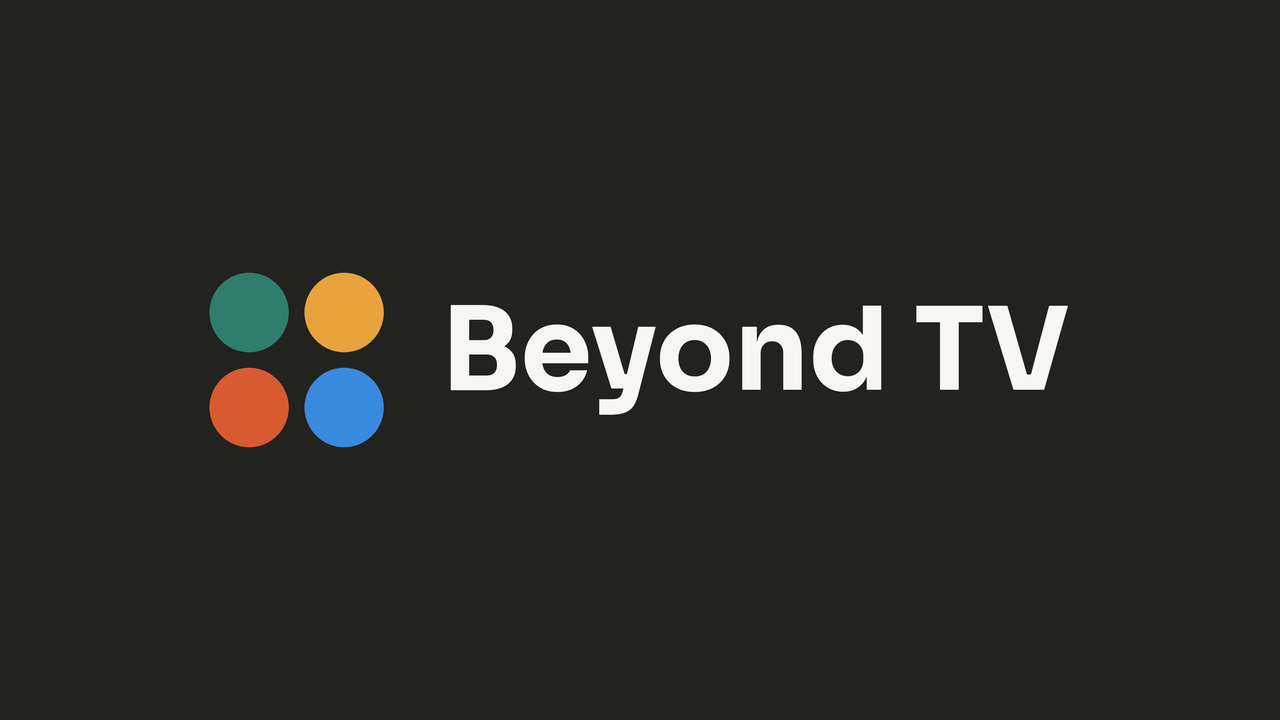
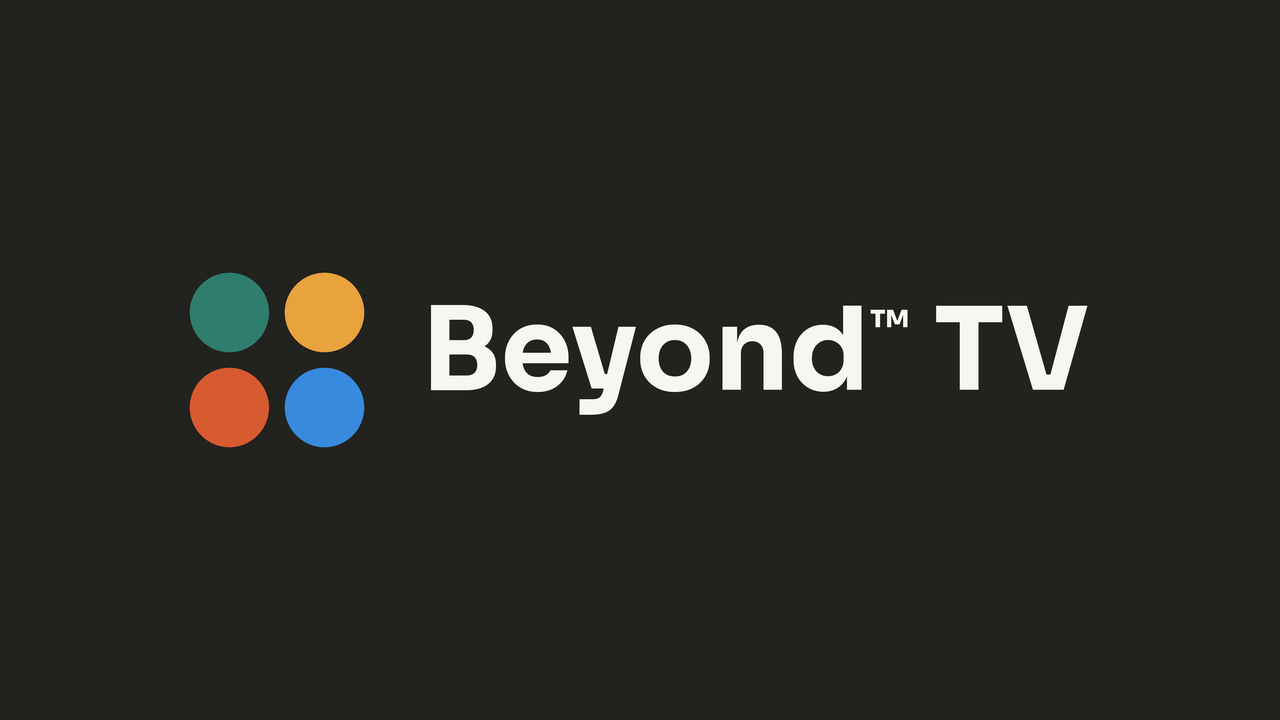
Beyond™ TV: the name with its mark everywhere people see it, and screenshots
The app label, the home screen, settings, notices and the three translations, the
LG and Samsung titles, the website and the README. Package names, ids, the Plex
headers and logs keep plain ASCII. The banner draws the mark small and raised.
README gains a screenshots table.

Claude-Session: https://claude.ai/code/session_01NMFHC4zJxMFBcCPjJdwmTM

Changed region(s): [[0.125, 0.3667, 0.875, 0.6417], [0.25, 0.6111, 0.2812, 0.6417]]

diff --git a/docs/index.html b/docs/index.html
@@ -3,11 +3,11 @@
 <head>
 <meta charset="utf-8">
 <meta name="viewport" content="width=device-width, initial-scale=1">
-<title>Beyond TV</title>
-<meta name="description" content="Beyond TV: one calm home screen for the whole whānau. Your streaming apps, your Plex and your family, on one TV, with no ads.">
+<title>Beyond™ TV</title>
+<meta name="description" content="Beyond™ TV: one calm home screen for the whole whānau. Your streaming apps, your Plex and your family, on one TV, with no ads.">
 <link rel="icon" href="assets/favicon-64.png">
 <link rel="apple-touch-icon" href="assets/apple-touch-icon.png">
-<meta property="og:title" content="Beyond TV">
+<meta property="og:title" content="Beyond™ TV">
 <meta property="og:description" content="One calm home screen for the whole whānau. No ads.">
 <meta property="og:image" content="assets/banner.png">
 <style>
@@ -40,14 +40,14 @@
 </head>
 <body>
 <main>
-  <header><span class="dots"><i></i><i></i><i></i><i></i></span>Beyond TV</header>
+  <header><span class="dots"><i></i><i></i><i></i><i></i></span>Beyond™ TV</header>
 
   <section class="hero">
     <h1>One calm home screen for the whole whānau.</h1>
-    <p class="lede">Beyond TV swaps your TV's ad-filled home screen for a quiet one: your streaming apps on one shelf,
+    <p class="lede">Beyond™ TV swaps your TV's ad-filled home screen for a quiet one: your streaming apps on one shelf,
       what's worth watching tonight, and nothing trying to sell you anything. Free, and built in Aotearoa by
       <a href="https://gobeyond.co.nz">Beyond</a>.</p>
-    <img src="assets/banner.png" alt="The Beyond TV logo: Beyond's four coloured dots beside the words Beyond TV">
+    <img src="assets/banner.png" alt="The Beyond™ TV logo: Beyond's four coloured dots beside the words Beyond™ TV">
   </section>
 
   <h2>What it does now</h2>
@@ -67,7 +67,7 @@
   </div>
 
   <footer>
-    Beyond TV is free and open source (GPL-3.0) at <a href="https://github.com/YeahBuddyNZ/Beyond.TV">github.com/YeahBuddyNZ/Beyond.TV</a>.
+    Beyond™ TV is free and open source (GPL-3.0) at <a href="https://github.com/YeahBuddyNZ/Beyond.TV">github.com/YeahBuddyNZ/Beyond.TV</a>.
     It began as a fork of <a href="https://github.com/simbasjungles/free-my-tv">Free My TV</a> (MIT), with thanks to its contributors.
   </footer>
 </main>

diff --git a/web/home.js b/web/home.js
@@ -820,7 +820,7 @@
     el('div', 'shade', s);
     var brand = el('div', 'brand lockup', s);
     dots(brand);
-    brand.appendChild(document.createTextNode('Beyond TV'));
+    brand.appendChild(document.createTextNode('Beyond™ TV'));
     var clock = el('div', 'clock', s);
     el('div', 'time', clock);
     el('div', 'date', clock);

diff --git a/web/index.html b/web/index.html
@@ -3,7 +3,7 @@
 <head>
 <meta charset="utf-8">
 <meta name="viewport" content="width=1920, height=1080">
-<title>Beyond TV</title>
+<title>Beyond™ TV</title>
 <link rel="stylesheet" href="home.css">
 <link rel="stylesheet" href="beyond.css">
 </head>

diff --git a/app/src/nz/gobeyond/tv/Russian.java b/app/src/nz/gobeyond/tv/Russian.java
@@ -71,8 +71,8 @@ final class Russian {
             case "Switching the home screen and screensaver…": return "Переключение главного экрана и заставки…";
             case "Android didn't accept the new home screen": return "Android не принял новый главный экран";
             case "Turning off apps (": return "Отключение приложений (";
-            case "Measuring Beyond TV…": return "Замер Beyond TV…";
-            case "Couldn't turn on Beyond TV: ": return "Не удалось включить Beyond TV: ";
+            case "Measuring Beyond™ TV…": return "Замер Beyond™ TV…";
+            case "Couldn't turn on Beyond™ TV: ": return "Не удалось включить Beyond™ TV: ";
             case "Turning the apps back on…": return "Включение приложений…";
             case "Turning apps back on (": return "Включение приложений (";
             case "Restoring the original home screen…": return "Восстановление заводского главного экрана…";
@@ -80,13 +80,13 @@ final class Russian {
             case "the original home screen": return "заводской главный экран";
             case "Original mode, but I couldn't turn back on: ": return "Заводской режим, но не удалось включить: ";
             case "Couldn't go back to the original: ": return "Не удалось восстановить заводской режим: ";
-            case "Beyond TV's home screen crashed 3 times in a row; I switched back to the original one.": return "Главный экран Beyond TV аварийно завершился 3 раза подряд; восстановлен заводской главный экран.";
+            case "Beyond™ TV's home screen crashed 3 times in a row; I switched back to the original one.": return "Главный экран Beyond™ TV аварийно завершился 3 раза подряд; восстановлен заводской главный экран.";
             case "the home screen": return "главный экран";
             case "the screensaver": return "заставка";
-            case "Couldn't check Beyond TV: ": return "Не удалось проверить Beyond TV: ";
+            case "Couldn't check Beyond™ TV: ": return "Не удалось проверить Beyond™ TV: ";
             case "The TV update turned back on ": return "После обновления телевизора снова включены: ";
             case "Turned off what was missing: ": return "Дополнительно отключены: ";
-            case "The TV was updated; Beyond TV is still on.": return "Телевизор обновлён; Beyond TV по-прежнему включён.";
+            case "The TV was updated; Beyond™ TV is still on.": return "Телевизор обновлён; Beyond™ TV по-прежнему включён.";
             case "Connecting…": return "Подключение…";
             case "Accept “Allow USB debugging?” on the TV (tick “Always allow”).": return "На телевизоре разрешите отладку по USB и отметьте «Всегда разрешать».";
             case "Language": return "Язык";
@@ -165,7 +165,7 @@ final class Russian {
             case "Soap": return "Мыльная опера";
             case "Talk": return "Ток-шоу";
             case "": return "";
-            case "Beyond TV's home screen ran into a problem.\nGoing back to the TV's original home screen…": return "Ошибка главного экрана Beyond TV.\nВозвращаемся к заводскому главному экрану…";
+            case "Beyond™ TV's home screen ran into a problem.\nGoing back to the TV's original home screen…": return "Ошибка главного экрана Beyond™ TV.\nВозвращаемся к заводскому главному экрану…";
             case "debugging is off on the TV (port 5555 closed)": return "отладка на телевизоре выключена (порт 5555 закрыт)";
             case "debugging permission wasn't accepted on the TV": return "на телевизоре не разрешена отладка";
             case "the TV's ADB didn't respond": return "ADB телевизора не ответил";
@@ -183,7 +183,7 @@ final class Russian {
                         + "Недоступные сети там не отображаются: Claude Code может удалить их с компьютера.";
             default:
                 // Notices are saved in the language in use when they were generated.
-                String[] prefixes = {"Couldn't check Beyond TV: ", "Couldn't turn on Beyond TV: ",
+                String[] prefixes = {"Couldn't check Beyond™ TV: ", "Couldn't turn on Beyond™ TV: ",
                         "Couldn't go back to the original: ", "Original mode, but I couldn't turn back on: "};
                 for (String p : prefixes) if (english.startsWith(p)) return text(p) + text(english.substring(p.length()));
                 String shelfPrefix = "OK adds or removes (up to ";
@@ -192,10 +192,10 @@ final class Russian {
                     String n = english.substring(shelfPrefix.length(), english.length() - shelfSuffix.length());
                     return "OK — добавить или убрать (до " + n + "). ← → — изменить порядок.";
                 }
-                String prefix = "Beyond TV is on: new home screen and screensaver, ";
+                String prefix = "Beyond™ TV is on: new home screen and screensaver, ";
                 if (english.startsWith(prefix) && english.endsWith(" apps turned off.")) {
                     String n = english.substring(prefix.length(), english.length() - " apps turned off.".length());
-                    return "Beyond TV включён: новый главный экран и заставка; отключено приложений: " + n + ".";
+                    return "Beyond™ TV включён: новый главный экран и заставка; отключено приложений: " + n + ".";
                 }
                 if (english.startsWith("On · ") && english.endsWith(" titles from the TV's apps, 3 new ones every hour.")) {
                     String n = english.substring(5, english.length() - " titles from the TV's apps, 3 new ones every hour.".length());

diff --git a/app/src/nz/gobeyond/tv/SettingsActivity.java b/app/src/nz/gobeyond/tv/SettingsActivity.java
@@ -176,7 +176,7 @@ public class SettingsActivity extends Activity {
             scene.setMotion(0.5f, 0.2f);
             scene.applyPalette();
             setFocusable(true);
-            setContentDescription("Beyond TV");
+            setContentDescription("Beyond™ TV");
             // TalkBack: one item per row, id = row + 1.
             spoken = new Spoken(this, new Spoken.Source() {
                 @Override public void items(List<Integer> out) { for (int i = 1; i <= rowCount(); i++) out.add(i); }
@@ -206,7 +206,7 @@ public class SettingsActivity extends Activity {
                     if (row == 0) {
                         String busyText = busyText();
                         String value = busy() ? (busyText.isEmpty() ? Ui.tr("Começando…", "Starting…") : busyText)
-                                : freeActive() ? "Beyond TV" : Ui.tr("Original", "Original");
+                                : freeActive() ? "Beyond™ TV" : Ui.tr("Original", "Original");
                         return Ui.tr("Início, ", "Home Screen, ") + value;
                     }
                     String[] names = {Ui.tr("Tela de Descanso, ver agora", "Screensaver, preview"), Ui.tr("Ajustes do Início", "Home Settings"),
@@ -214,7 +214,7 @@ public class SettingsActivity extends Activity {
                     return row - 1 < names.length ? names[row - 1] : "";
                 }
                 case HOME_CHOICE: {
-                    String name = row == 0 ? "Beyond TV, " + Ui.tr("sem anúncios, com a tela de descanso nova", "no ads, with the new screensaver")
+                    String name = row == 0 ? "Beyond™ TV, " + Ui.tr("sem anúncios, com a tela de descanso nova", "no ads, with the new screensaver")
                             : "Original, " + Ui.tr("o Início de fábrica da TV", "the TV's factory home screen");
                     boolean inUse = (row == 0) == freeActive();
                     return name + (inUse ? Ui.tr(". Em uso", ". In use") : "") + ", " + (row + 1) + Ui.tr(" de 2", " of 2");
@@ -361,7 +361,7 @@ public class SettingsActivity extends Activity {
             // On the left: big symbol, title, description.
             float cx = 500 * k;
             Symbols.draw(getContext(), c, "sparkles", cx, 400 * k, 150 * k, 0xEBFFFFFF);
-            c.drawText("Beyond TV", cx, 612 * k, title);
+            c.drawText("Beyond™ TV", cx, 612 * k, title);
             c.drawText(Ui.tr("Início e tela de descanso da TV", "Your TV's home screen and screensaver"), cx, 660 * k, subtitle);
             c.drawText(versionName(getContext()), cx, 704 * k, version);
 
@@ -371,7 +371,7 @@ public class SettingsActivity extends Activity {
         private void drawMain(Canvas c, float seconds) {
             boolean working = busy();
             String busyText = busyText();
-            String mode = freeActive() ? "Beyond TV" : Ui.tr("Original", "Original");
+            String mode = freeActive() ? "Beyond™ TV" : Ui.tr("Original", "Original");
             String[] labels = {Ui.tr("Início", "Home Screen"), Ui.tr("Tela de Descanso", "Screensaver"),
                     Ui.tr("Ajustes do Início", "Home Settings"), Ui.tr("Prateleira", "Shelf"),
                     Ui.tr("Botões do Controle", "Remote Buttons"), Ui.tr("Ajustes da TV", "TV Settings")};
@@ -475,7 +475,7 @@ public class SettingsActivity extends Activity {
             c.drawText(Ui.tr("COMPARAÇÃO", "COMPARISON"), x, y, header);
             cellValue.setColor(0x73FFFFFF);
             c.drawText(Ui.tr("Original", "Original"), colA, y, cellValue);
-            c.drawText("Beyond TV", colB, y, cellValue);
+            c.drawText("Beyond™ TV", colB, y, cellValue);
             cellValue.setColor(0xD9FFFFFF);
             JSONObject metrics = state.optJSONObject("metrics");
             JSONObject a = metrics == null ? null : metrics.optJSONObject(HomeMode.ORIGINAL);
@@ -510,7 +510,7 @@ public class SettingsActivity extends Activity {
         private void drawChoice(Canvas c) {
             Paint heading = Ui.text(Ui.displaySemibold, 34 * k, 0xFFFFFFFF);
             c.drawText(Ui.tr("Início", "Home Screen"), LIST_X * k + 30 * k, (LIST_TOP - 24) * k, heading);
-            String[][] options = {{"Beyond TV", Ui.tr("Sem anúncios, com a tela de descanso nova", "No ads, with the new screensaver")},
+            String[][] options = {{"Beyond™ TV", Ui.tr("Sem anúncios, com a tela de descanso nova", "No ads, with the new screensaver")},
                     {Ui.tr("Original", "Original"), Ui.tr("O Início de fábrica da TV", "The TV's factory home screen")}};
             int current = freeActive() ? 0 : 1;
             for (int i = 0; i < 2; i++) {
@@ -557,9 +557,9 @@ public class SettingsActivity extends Activity {
 
         private static String versionName(Context c) {
             try {
-                return "Beyond TV " + c.getPackageManager().getPackageInfo(c.getPackageName(), 0).versionName;
+                return "Beyond™ TV " + c.getPackageManager().getPackageInfo(c.getPackageName(), 0).versionName;
             } catch (android.content.pm.PackageManager.NameNotFoundException e) {
-                return "Beyond TV";
+                return "Beyond™ TV";
             }
         }
 

diff --git a/app/src/nz/gobeyond/tv/German.java b/app/src/nz/gobeyond/tv/German.java
@@ -64,8 +64,8 @@ final class German {
             case "Switching the home screen and screensaver…": return "Startbildschirm und Bildschirmschoner werden gewechselt…";
             case "Android didn't accept the new home screen": return "Android hat den neuen Startbildschirm nicht angenommen";
             case "Turning off apps (": return "Apps werden ausgeschaltet (";
-            case "Measuring Beyond TV…": return "Beyond TV wird gemessen…";
-            case "Couldn't turn on Beyond TV: ": return "Beyond TV ließ sich nicht einschalten: ";
+            case "Measuring Beyond™ TV…": return "Beyond™ TV wird gemessen…";
+            case "Couldn't turn on Beyond™ TV: ": return "Beyond™ TV ließ sich nicht einschalten: ";
             case "Turning the apps back on…": return "Die Apps werden wieder eingeschaltet…";
             case "Turning apps back on (": return "Apps werden wieder eingeschaltet (";
             case "Restoring the original home screen…": return "Der ursprüngliche Startbildschirm wird wiederhergestellt…";
@@ -73,16 +73,16 @@ final class German {
             case "the original home screen": return "den ursprünglichen Startbildschirm";
             case "Original mode, but I couldn't turn back on: ": return "Originalmodus, aber das ließ sich nicht wieder einschalten: ";
             case "Couldn't go back to the original: ": return "Zurück zum Original ging nicht: ";
-            case "Beyond TV's home screen crashed 3 times in a row; I switched back to the original one.": return "Der Startbildschirm von Beyond TV ist 3-mal hintereinander abgestürzt; der ursprüngliche ist wieder aktiv.";
+            case "Beyond™ TV's home screen crashed 3 times in a row; I switched back to the original one.": return "Der Startbildschirm von Beyond™ TV ist 3-mal hintereinander abgestürzt; der ursprüngliche ist wieder aktiv.";
             case "the home screen": return "den Startbildschirm";
             case "the screensaver": return "den Bildschirmschoner";
-            case "Couldn't check Beyond TV: ": return "Beyond TV ließ sich nicht prüfen: ";
+            case "Couldn't check Beyond™ TV: ": return "Beyond™ TV ließ sich nicht prüfen: ";
             case "The TV update turned back on ": return "Das TV-Update hat wieder eingeschaltet: ";
             case "Turned off what was missing: ": return "Ausgeschaltet, was noch fehlte: ";
-            case "The TV was updated; Beyond TV is still on.": return "Der Fernseher wurde aktualisiert; Beyond TV ist weiter aktiv.";
+            case "The TV was updated; Beyond™ TV is still on.": return "Der Fernseher wurde aktualisiert; Beyond™ TV ist weiter aktiv.";
             case "Connecting…": return "Verbindung wird hergestellt…";
             case "Accept “Allow USB debugging?” on the TV (tick “Always allow”).": return "Am Fernseher „USB-Debugging zulassen?“ bestätigen („Immer zulassen“ ankreuzen).";
-            case "Beyond TV's home screen ran into a problem.\nGoing back to the TV's original home screen…": return "Der Startbildschirm von Beyond TV hatte ein Problem.\nZurück zum ursprünglichen Startbildschirm…";
+            case "Beyond™ TV's home screen ran into a problem.\nGoing back to the TV's original home screen…": return "Der Startbildschirm von Beyond™ TV hatte ein Problem.\nZurück zum ursprünglichen Startbildschirm…";
             case "the TV's first setup saved the Wi-Fi, and turning it off would erase those networks. "
                     + "In Settings → Network & Internet, forget the network and connect again (networks out of range don't "
                     + "show there: Claude Code can remove them from your computer), then try once more.":
@@ -139,9 +139,9 @@ final class German {
             case "The other buttons: the TV itself controls them.": return "Die anderen Tasten steuert der Fernseher selbst.";
             case "TCL remote buttons: on this TV they work as always.": return "TCL-Fernbedienung: Die Tasten funktionieren hier wie immer.";
             default:
-                if (english.startsWith("Beyond TV is on: new home screen and screensaver, ")) {
-                    return "Beyond TV ist an: neuer Startbildschirm und Bildschirmschoner, "
-                            + english.substring("Beyond TV is on: new home screen and screensaver, ".length()).replace(" apps turned off.", " Apps ausgeschaltet.");
+                if (english.startsWith("Beyond™ TV is on: new home screen and screensaver, ")) {
+                    return "Beyond™ TV ist an: neuer Startbildschirm und Bildschirmschoner, "
+                            + english.substring("Beyond™ TV is on: new home screen and screensaver, ".length()).replace(" apps turned off.", " Apps ausgeschaltet.");
                 }
                 if (english.startsWith("On · ")) {
                     return "An · " + english.substring(5).replace(" titles from the TV's apps, 3 new ones every hour.",

diff --git a/app/src/nz/gobeyond/tv/Spanish.java b/app/src/nz/gobeyond/tv/Spanish.java
@@ -62,8 +62,8 @@ final class Spanish {
             case "Switching the home screen and screensaver…": return "Cambiando la pantalla de inicio y el protector de pantalla…";
             case "Android didn't accept the new home screen": return "Android no aceptó la nueva pantalla de inicio";
             case "Turning off apps (": return "Desactivando apps (";
-            case "Measuring Beyond TV…": return "Midiendo Beyond TV…";
-            case "Couldn't turn on Beyond TV: ": return "No se pudo activar Beyond TV: ";
+            case "Measuring Beyond™ TV…": return "Midiendo Beyond™ TV…";
+            case "Couldn't turn on Beyond™ TV: ": return "No se pudo activar Beyond™ TV: ";
             case "Turning the apps back on…": return "Reactivando las apps…";
             case "Turning apps back on (": return "Reactivando apps (";
             case "Restoring the original home screen…": return "Restaurando la pantalla de inicio original…";
@@ -71,16 +71,16 @@ final class Spanish {
             case "the original home screen": return "la pantalla de inicio original";
             case "Original mode, but I couldn't turn back on: ": return "Modo original, pero no se pudo reactivar: ";
             case "Couldn't go back to the original: ": return "No se pudo volver al modo original: ";
-            case "Beyond TV's home screen crashed 3 times in a row; I switched back to the original one.": return "La pantalla de inicio de Beyond TV falló 3 veces seguidas; volví a la original.";
+            case "Beyond™ TV's home screen crashed 3 times in a row; I switched back to the original one.": return "La pantalla de inicio de Beyond™ TV falló 3 veces seguidas; volví a la original.";
             case "the home screen": return "la pantalla de inicio";
             case "the screensaver": return "el protector de pantalla";
-            case "Couldn't check Beyond TV: ": return "No se pudo comprobar Beyond TV: ";
+            case "Couldn't check Beyond™ TV: ": return "No se pudo comprobar Beyond™ TV: ";
             case "The TV update turned back on ": return "La actualización del TV reactivó ";
             case "Turned off what was missing: ": return "Desactivé lo que faltaba: ";
-            case "The TV was updated; Beyond TV is still on.": return "El TV se actualizó; Beyond TV sigue activo.";
+            case "The TV was updated; Beyond™ TV is still on.": return "El TV se actualizó; Beyond™ TV sigue activo.";
             case "Connecting…": return "Conectando…";
             case "Accept “Allow USB debugging?” on the TV (tick “Always allow”).": return "Acepta “¿Permitir depuración USB?” en el TV (marca “Permitir siempre”).";
-            case "Beyond TV's home screen ran into a problem.\nGoing back to the TV's original home screen…": return "La pantalla de inicio de Beyond TV tuvo un problema.\nVolviendo a la pantalla original del TV…";
+            case "Beyond™ TV's home screen ran into a problem.\nGoing back to the TV's original home screen…": return "La pantalla de inicio de Beyond™ TV tuvo un problema.\nVolviendo a la pantalla original del TV…";
             // Home Settings, Shelf and Remote Buttons (#15, #16, #17)
             case "Language": return "Idioma";
             case "Temperature": return "Temperatura";
@@ -131,9 +131,9 @@ final class Spanish {
             case "The other buttons: the TV itself controls them.": return "Los demás botones: el propio TV los controla.";
             case "TCL remote buttons: on this TV they work as always.": return "Botones del control de TCL: en este TV funcionan como siempre.";
             default:
-                if (english.startsWith("Beyond TV is on: new home screen and screensaver, ")) {
-                    return "Beyond TV está activo: nueva pantalla de inicio y protector, "
-                            + english.substring("Beyond TV is on: new home screen and screensaver, ".length()).replace(" apps turned off.", " apps desactivadas.");
+                if (english.startsWith("Beyond™ TV is on: new home screen and screensaver, ")) {
+                    return "Beyond™ TV está activo: nueva pantalla de inicio y protector, "
+                            + english.substring("Beyond™ TV is on: new home screen and screensaver, ".length()).replace(" apps turned off.", " apps desactivadas.");
                 }
                 if (english.startsWith("On · ")) {
                     return "Activas · " + english.substring(5).replace(" titles from the TV's apps, 3 new ones every hour.",

diff --git a/app/src/nz/gobeyond/tv/HomeMode.java b/app/src/nz/gobeyond/tv/HomeMode.java
@@ -311,15 +311,15 @@ final class HomeMode {
                     AppLog.w("remote buttons service: " + e.getMessage());
                 }
             }
-            notice(c, Ui.tr("Beyond TV ligado: Início e tela de descanso novos, " + disabled.size() + " apps desligados.",
-                    "Beyond TV is on: new home screen and screensaver, " + disabled.size() + " apps turned off."));
-            busy(c, Ui.tr("Medindo o Beyond TV…", "Measuring Beyond TV…"));
+            notice(c, Ui.tr("Beyond™ TV ligado: Início e tela de descanso novos, " + disabled.size() + " apps desligados.",
+                    "Beyond™ TV is on: new home screen and screensaver, " + disabled.size() + " apps turned off."));
+            busy(c, Ui.tr("Medindo o Beyond™ TV…", "Measuring Beyond™ TV…"));
             measureHomeTime(c, adb, FREE);
             done(c, null);
             adb.shell("am start -a android.intent.action.MAIN -c android.intent.category.HOME");
             ModeJob.schedule(c, ModeJob.MEMORY, FREE, 120_000);
         } catch (Exception e) {
-            done(c, Ui.tr("Não deu para ligar o Beyond TV: ", "Couldn't turn on Beyond TV: ") + (Ui.ru ? Russian.text(e.getMessage() == null ? "" : e.getMessage()) : e.getMessage()));
+            done(c, Ui.tr("Não deu para ligar o Beyond™ TV: ", "Couldn't turn on Beyond™ TV: ") + (Ui.ru ? Russian.text(e.getMessage() == null ? "" : e.getMessage()) : e.getMessage()));
         }
     }
 
@@ -416,8 +416,8 @@ final class HomeMode {
                 restoreScreensaver(adb, s);
                 s.put("homeReverted", true).put("disabled", kept);
                 save(app, s);
-                notice(app, Ui.tr("O Início do Beyond TV caiu 3 vezes seguidas; voltei para o Início original.",
-                        "Beyond TV's home screen crashed 3 times in a row; I switched back to the original one."));
+                notice(app, Ui.tr("O Início do Beyond™ TV caiu 3 vezes seguidas; voltei para o Início original.",
+                        "Beyond™ TV's home screen crashed 3 times in a row; I switched back to the original one."));
                 adb.shell("am start -a android.intent.action.MAIN -c android.intent.category.HOME");
             } catch (Exception e) {
                 AppLog.w("could not give the home screen back: " + e.getMessage());
@@ -484,14 +484,14 @@ final class HomeMode {
                 latest.put("disabled", new JSONArray(sorted(disabled)));
                 save(app, latest);
             } catch (Exception e) {
-                notice(app, Ui.tr("Não consegui conferir o Beyond TV: ", "Couldn't check Beyond TV: ") + (Ui.ru ? Russian.text(e.getMessage() == null ? "" : e.getMessage()) : e.getMessage()));
+                notice(app, Ui.tr("Não consegui conferir o Beyond™ TV: ", "Couldn't check Beyond™ TV: ") + (Ui.ru ? Russian.text(e.getMessage() == null ? "" : e.getMessage()) : e.getMessage()));
                 return;
             }
             if (!fixed.isEmpty()) {
                 notice(app, (updated ? Ui.tr("A atualização da TV religou ", "The TV update turned back on ")
                         : Ui.tr("Desliguei o que faltava: ", "Turned off what was missing: ")) + String.join(", ", fixed) + ".");
             } else if (updated) {
-                notice(app, Ui.tr("A TV foi atualizada; o Beyond TV continua igual.", "The TV was updated; Beyond TV is still on."));
+                notice(app, Ui.tr("A TV foi atualizada; o Beyond™ TV continua igual.", "The TV was updated; Beyond™ TV is still on."));
             }
         }
     }

diff --git a/tools/make_art.py b/tools/make_art.py
@@ -46,21 +46,27 @@ def font(px, weight=700):
 
 
 def banner(w=640, h=360):
-    """Android TV's launcher banner: the dots and "Beyond TV" in paper on ink."""
+    """Android TV's launcher banner: the dots and "Beyond™ TV" in paper on ink, the ™ small and raised."""
     s = 4
     img = Image.new("RGBA", (w * s, h * s), INK + (255,))
     d = ImageDraw.Draw(img)
-    f = font(int(h * 0.16 * s))
-    text = "Beyond TV"
-    box = d.textbbox((0, 0), text, font=f)
+    size = int(h * 0.16 * s)
+    f, small = font(size), font(int(size * 0.38))
+    parts = [("Beyond", f, 0), ("\u2122", small, -0.42 * size), (" TV", f, 0)]
+    widths = [d.textlength(t, font=pf) for t, pf, _ in parts]
+    box = d.textbbox((0, 0), "Beyond TV", font=f)
     r, gap = h * 0.055 * s, h * 0.022 * s
     mark_w = 4 * r + gap
     space = int(w * 0.045 * s)
-    total = mark_w + space + (box[2] - box[0])
+    total = mark_w + space + sum(widths)
     x = (w * s - total) / 2
     dots(d, x + mark_w / 2, h * s / 2, r, gap)
     y = (h * s - (box[3] - box[1])) / 2 - box[1]
-    d.text((x + mark_w + space - box[0], y), text, font=f, fill=PAPER + (255,))
+    tx = x + mark_w + space - box[0]
+    base = y + f.getmetrics()[0]
+    for (t, pf, lift), tw in zip(parts, widths):
+        d.text((tx, base + lift), t, font=pf, fill=PAPER + (255,), anchor="ls")
+        tx += tw
     return img.resize((w, h), Image.LANCZOS)
 
 

diff --git a/app/src/nz/gobeyond/tv/HomeActivity.java b/app/src/nz/gobeyond/tv/HomeActivity.java
@@ -25,8 +25,8 @@ public class HomeActivity extends Activity {
             // Don't try to draw again: only show a notice while the main process restores the original home screen.
             HomeMode.requestRevertHome(this);
             TextView t = new TextView(this);
-            t.setText(Ui.tr("O Início do Beyond TV teve um problema.\nVoltando para o Início original da TV…",
-                    "Beyond TV's home screen ran into a problem.\nGoing back to the TV's original home screen…"));
+            t.setText(Ui.tr("O Início do Beyond™ TV teve um problema.\nVoltando para o Início original da TV…",
+                    "Beyond™ TV's home screen ran into a problem.\nGoing back to the TV's original home screen…"));
             t.setTextColor(Color.WHITE);
             t.setTextSize(TypedValue.COMPLEX_UNIT_SP, 22);
             t.setGravity(Gravity.CENTER);

diff --git a/app/src/nz/gobeyond/tv/HomeView.java b/app/src/nz/gobeyond/tv/HomeView.java
@@ -372,7 +372,7 @@ final class HomeView extends ViewGroup implements Choreographer.FrameCallback, H
             v.setImportantForAccessibility(IMPORTANT_FOR_ACCESSIBILITY_NO);   // TalkBack reads the items (Spoken)
             addView(v);
         }
-        setContentDescription("Beyond TV");
+        setContentDescription("Beyond™ TV");
         drawerLayer.setVisibility(INVISIBLE);
         for (int i = 0; i < 6; i++) {
             topFocus[i] = new Spring(0.26f, 0.85f, 0);

diff --git a/app/src/nz/gobeyond/tv/HomeApps.java b/app/src/nz/gobeyond/tv/HomeApps.java
@@ -356,7 +356,7 @@ final class HomeApps {
         synchronized (HomeApps.class) {
             TILES.keySet().removeIf(k -> k.contains(".") && !seen.contains(k));
         }
-        items.add(special(c, SETTINGS, "beyondtv-settings", "Beyond TV", "sparkles"));
+        items.add(special(c, SETTINGS, "beyondtv-settings", "Beyond™ TV", "sparkles"));
         return items;
     }
 
